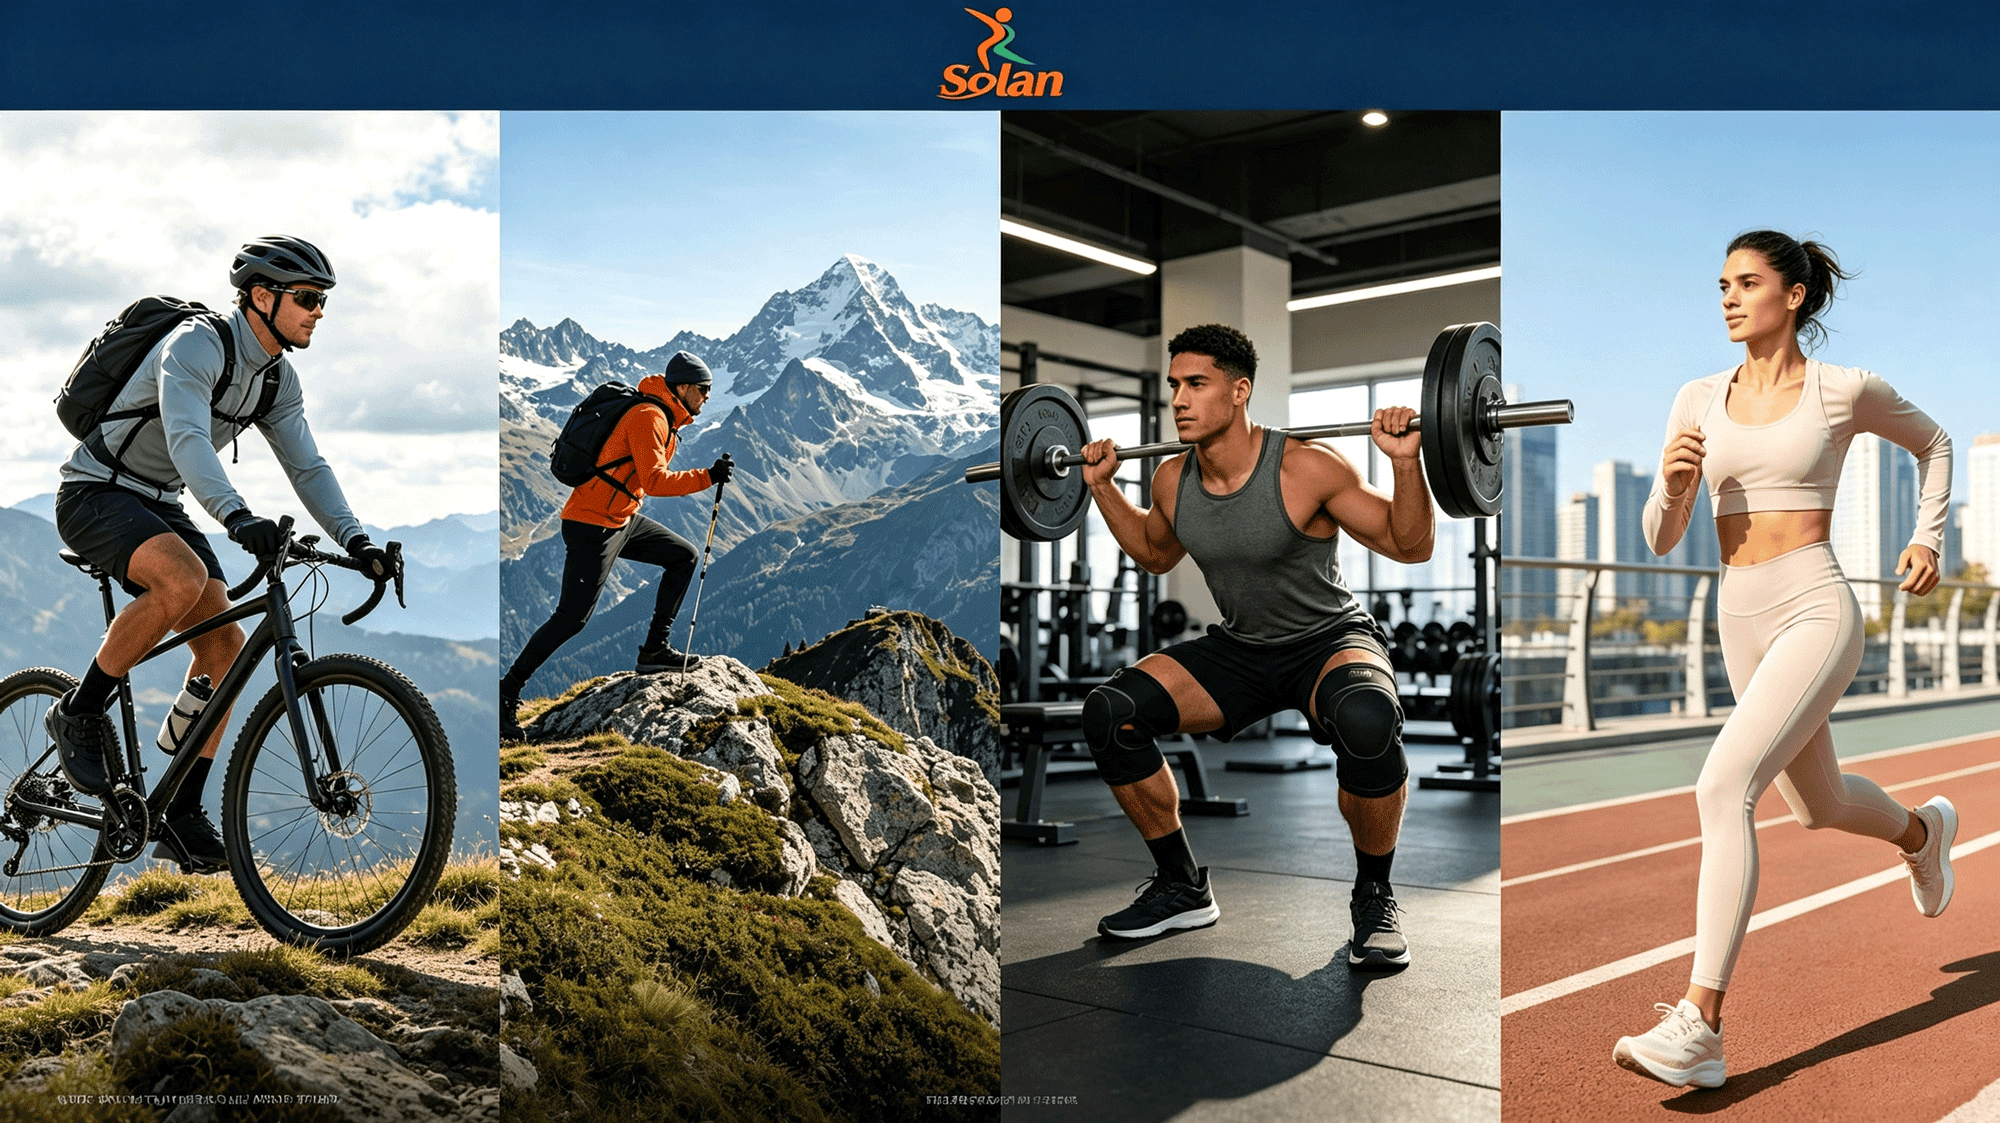
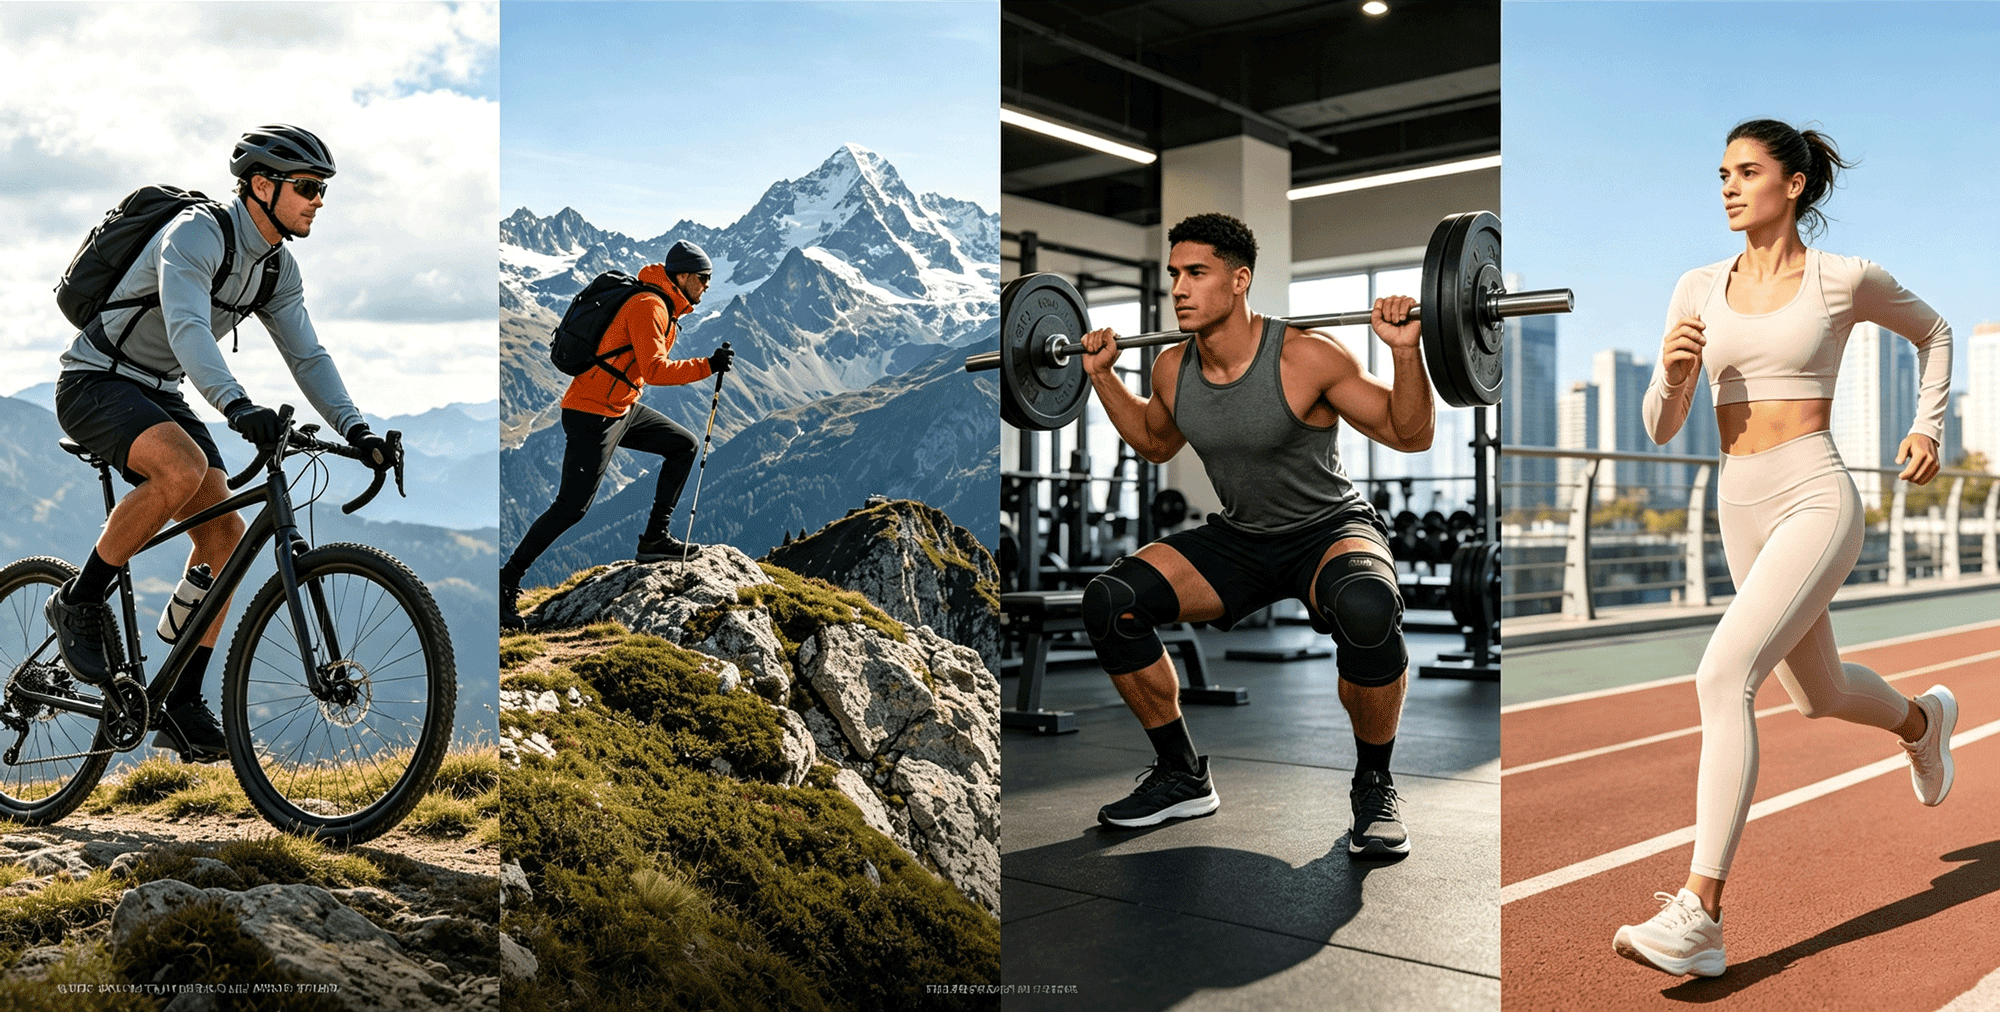
更新

diff --git a/index.html b/index.html
@@ -21,7 +21,7 @@
     <div class="container">
       <a href="#home" class="logo-wrapper">
         <img class="logo-image" src="./img/logo.png" alt="Solan Logo" width="36" height="36">
-        <span class="logo-text">Solan</span>
+        <!-- <span class="logo-text">Solan</span> -->
       </a>
       <div class="social-channels social-channels--header" aria-label="Follow us">
         <img class="social-channels__img" src="./img/contact-channels.png" alt="Follow us on WhatsApp, Facebook and LinkedIn" width="376" height="125" loading="eager">
@@ -56,7 +56,8 @@
       <div class="home-hero__media" aria-hidden="true"></div>
       <div class="home-hero__content">
         <p class="home-hero__brand">Solan</p>
-        <h1 class="home-hero__title">Trusted One-Stop Supplier For Sports &amp; Outdoor Products</h1>
+        <!-- <h1 class="home-hero__title">Trusted One-Stop Supplier For Sports &amp; Outdoor Products</h1> -->
+        <h1 class="home-hero__title">Trusted One-Stop Supplier <br/>Sports & Outdoor Products</h1>
         <p class="home-hero__subtitle">Sports protective gear | Riding &amp; Outdoor | Functional apparel | Fitness accessories</p>
         <p class="home-hero__tags">OEM &amp; ODM Customization｜Amazon FBA Supply｜DDP Door‑to‑Door Service</p>
         <div class="home-hero__actions">
@@ -125,8 +126,8 @@
         <h4>Outdoor &amp; Cycling Series</h4>
       </article>
       <article class="card product-card">
-        <div class="card-media"><img src="./img/product-active-apparel.png" alt="Functional active apparel and reflective safety wear" loading="lazy"></div>
-        <h4>Functional Active Apparel &amp; Reflective Safety Wear</h4>
+        <div class="card-media"><img src="./img/product-active-apparel.png" alt="Functional apparel and reflective safety wear" loading="lazy"></div>
+        <h4>Functional Apparel &amp; Reflective Safety Wear</h4>
       </article>
       <article class="card product-card">
         <div class="card-media"><img src="./img/product-mixed-procurement.png" alt="One-stop mixed procurement" loading="lazy"></div>
@@ -452,7 +453,8 @@
 
 <footer>
   <div class="container">
-    <p>© 2026 Hebei Solan Technology Co., Ltd — <a href="http://www.solanactive.com" target="_blank" rel="noopener noreferrer">solanactive.com</a>  |  Sports Protective Gear · Activewear · Outdoor Cycling · Amazon Supply</p>
+    <!-- <p>© 2026 Hebei Solan Technology Co., Ltd — <a href="http://www.solanactive.com" target="_blank" rel="noopener noreferrer">solanactive.com</a>  |  Sports Protective Gear · Activewear · Outdoor Cycling · Amazon Supply</p> -->
+    <p>© 2026 Hebei Solan Technology Co., Ltd. <a href="http://www.solanactive.com" target="_blank" rel="noopener noreferrer">Solanactive.com</a>. All Rights Reserved.</p>
     <p class="footer-links">
       <a href="#terms" class="js-page-link">Terms of Use</a>
       <span class="footer-links__sep" aria-hidden="true">·</span>

diff --git a/style/index.css b/style/index.css
@@ -316,7 +316,7 @@ main {
   font-weight: 700;
   line-height: 1.25;
   letter-spacing: -0.02em;
-  max-width: 18ch;
+  max-width: 22ch;
   margin-bottom: 1rem;
   color: #f7fafc;
   animation: home-rise 0.75s ease 0.08s both;
@@ -767,12 +767,12 @@ footer a:hover {
 
 .footer-links a {
   color: #c5ccd3;
-  text-decoration: underline;
-  text-underline-offset: 3px;
+  text-decoration: none;
 }
 
 .footer-links a:hover {
   color: #e06a52;
+  text-decoration: none;
 }
 
 .footer-links__sep {
@@ -1091,7 +1091,7 @@ footer a:hover {
 /* 产品图区：恢复可见高度，拉高页面主体 */
 .product-card .card-media {
   overflow: hidden;
-  height: 240px;
+  height: 360px;
   background: #e8eef3;
 }
 
